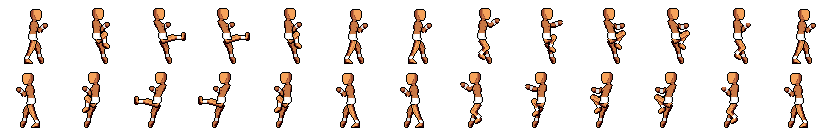
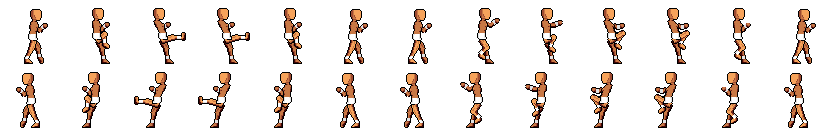
Muay Thai kicks: the lead foot stays planted flat while the near leg kicks (user)
Claude-Session: https://claude.ai/code/session_017CpKqJoJ6S1SbVzf5siv9E

diff --git a/tools/mtstrikes.py b/tools/mtstrikes.py
@@ -26,7 +26,7 @@ POSES = [pose(LIGHT, 'cross-lead'), pose(LIGHT, 'cross-rear')] + [pose(HEAVY, n)
 
 ST = dict(an=GN, af=GF, bob=(1, 1, 2), lean=(0, 2), root=(0, 0), ln='mt-rear', lf='mt-lead')   # muayThaiGuard frame 0
 def f(**k): return {**ST, **k}
-def p(**k): return {**ST, 'lf': 'mt-lead-flat', **k}   # punch frames: the lead heel comes down and stays down until the clip returns to the stance
+def p(**k): return {**ST, 'lf': 'mt-lead-flat', **k}   # strike frames: the lead heel comes down and stays down until the clip returns to the stance (Christopher 2026-10-20, punches and near-leg kicks)
 
 CLIPS = {   # (clip, ability, active frame, hitbox [x, y, w, h], damage, frames)
  'jab': ('Jab-Cross', 1, [44, 26, 12, 6], 'light', [
@@ -34,25 +34,25 @@ CLIPS = {   # (clip, ability, active frame, hitbox [x, y, w, h], damage, frames)
  'cross': ('Jab-Cross', 1, [44, 26, 12, 6], 'light', [
      p(an=band(-8, 205), lean=(0, 3)), p(an=band(-92, -92), bob=(2, 2, 2), lean=(1, 5), root=(1, 0), ln='cross-rear', lf='cross-lead'), p(an=band(-55, 230), lean=(0, 3)), f()]),
  'calfKick': ('Calf Kick', 2, [42, 46, 16, 10], 'heavy', [
-     f(lean=(0, 1)), f(bob=(0, 0, 1), lean=(0, 0), ln='lift'),
-     f(an=band(25, 20), bob=(0, 0, 1), lean=(1, -2), root=(1, 0), ln='low-kick', lf='lead-pivot'),
-     f(bob=(0, 0, 1), lean=(0, -1), ln='low-recoil', lf='lead-pivot'), f()]),
+     p(lean=(0, 1)), p(bob=(0, 0, 1), lean=(0, 0), ln='lift'),
+     p(an=band(25, 20), bob=(0, 0, 1), lean=(1, -2), root=(1, 0), ln='low-kick', lf='lead-pivot'),
+     p(bob=(0, 0, 1), lean=(0, -1), ln='low-recoil', lf='lead-pivot'), f()]),
  'roundhouse': ('Roundhouse Kick', 3, [44, 28, 14, 10], 'heavy', [   # rear arm swings down and back as the hip turns over; lead hand stays up
-     f(), f(an=band(-5, 190), bob=(0, 0, 1), lean=(0, 1), ln='lift', lf='mt-pivot'),
-     f(an=band(30, 40), bob=(0, 0, 1), lean=(1, -1), ln='round-fold', lf='mt-pivot'),
-     f(an=band(40, 30), af=band(-60, 200), bob=(0, 0, 1), lean=(1, -4), root=(1, 0), ln='mt-round', lf='mt-pivot'),
-     f(an=band(40, 30), af=band(-60, 200), bob=(0, 0, 1), lean=(1, -4), ln='mt-round', lf='mt-pivot'),
-     f(an=band(10, 60), bob=(0, 0, 1), lean=(0, -1), ln='round-fold', lf='mt-pivot'), f(an=band(-10, 200), ln='lift'), f()]),
+     f(), p(an=band(-5, 190), bob=(0, 0, 1), lean=(0, 1), ln='lift', lf='lead-pivot'),
+     p(an=band(30, 40), bob=(0, 0, 1), lean=(1, -1), ln='round-fold', lf='lead-pivot'),
+     p(an=band(40, 30), af=band(-60, 200), bob=(0, 0, 1), lean=(1, -4), root=(1, 0), ln='mt-round', lf='lead-pivot'),
+     p(an=band(40, 30), af=band(-60, 200), bob=(0, 0, 1), lean=(1, -4), ln='mt-round', lf='lead-pivot'),
+     p(an=band(10, 60), bob=(0, 0, 1), lean=(0, -1), ln='round-fold', lf='lead-pivot'), p(an=band(-10, 200), ln='lift'), f()]),
  'teep': ('Teep Kick', 2, [46, 34, 12, 10], 'heavy', [   # knee to the chest, hips pushed through, torso leaning back
-     f(), f(bob=(0, 0, 1), lean=(0, 0), ln='teep-chamber'),
-     f(bob=(0, 0, 1), lean=(2, -3), root=(1, 0), ln='teep'), f(bob=(0, 0, 1), lean=(2, -3), ln='teep'),
-     f(bob=(0, 0, 1), lean=(0, 0), ln='teep-chamber'), f()]),
- 'knee': ('Knee Strikes', 3, [44, 32, 10, 10], 'heavy', [   # hands reach up and pull down as the rear knee drives up, up on the lead toes
-     f(), f(an=band(-75, -120), af=band(-85, -125), bob=(0, 0, 1), lean=(1, 3), ln='lift'),
-     f(an=band(-70, -100), af=band(-80, -110), bob=(0, 0, 1), lean=(2, 1), root=(1, 0), ln='chamber'),
-     f(an=band(-55, -70), af=band(-65, -85), bob=(0, 0, 0), lean=(3, -1), ln='mt-knee'),
-     f(an=band(-55, -70), af=band(-65, -85), bob=(0, 0, 0), lean=(3, -1), ln='mt-knee'),
-     f(an=band(-40, 230), af=GF, bob=(0, 0, 1), lean=(1, 1), ln='lift'), f()]),
+     f(), p(bob=(0, 0, 1), lean=(0, 0), ln='teep-chamber'),
+     p(bob=(0, 0, 1), lean=(2, -3), root=(1, 0), ln='teep'), p(bob=(0, 0, 1), lean=(2, -3), ln='teep'),
+     p(bob=(0, 0, 1), lean=(0, 0), ln='teep-chamber'), f()]),
+ 'knee': ('Knee Strikes', 3, [44, 32, 10, 10], 'heavy', [   # hands reach up and pull down as the rear knee drives up, lead foot planted
+     f(), p(an=band(-75, -120), af=band(-85, -125), bob=(0, 0, 1), lean=(1, 3), ln='lift'),
+     p(an=band(-70, -100), af=band(-80, -110), bob=(0, 0, 1), lean=(2, 1), root=(1, 0), ln='chamber'),
+     p(an=band(-55, -70), af=band(-65, -85), bob=(0, 0, 0), lean=(3, -1), ln='mt-knee'),
+     p(an=band(-55, -70), af=band(-65, -85), bob=(0, 0, 0), lean=(3, -1), ln='mt-knee'),
+     p(an=band(-40, 230), af=GF, bob=(0, 0, 1), lean=(1, 1), ln='lift'), f()]),
  'elbow': ('Elbow Strike', 2, [42, 22, 10, 8], 'heavy', [   # rear elbow carried level across, forearm folded back to the head
      f(), p(an=band(-55, -155), lean=(1, 3)),
      f(an=band(-105, 95), bob=(2, 2, 2), lean=(1, 3), root=(1, 0), ln='cross-rear', lf='cross-lead'),
@@ -83,7 +83,7 @@ def spec(state, names):
     events = {'rule': 'per-frame gameplay data per facing (W mirrors E: x -> 64 - x - w); hitboxes provisional', 'E': ev,
               'W': [{**e, 'hitbox': [64 - e['hitbox'][0] - e['hitbox'][2]] + e['hitbox'][1:]} if 'hitbox' in e else dict(e) for e in ev]}
     s = build(base, state, frames, status=STAT, newPoses=POSES, clips=clips, events=events, rmRule='E: x +1 on the step into each strike',
-              intent='Muay Thai stance strikes: Jab-Cross, Calf Kick, Roundhouse (rear shin swung through at rib height, rear arm swinging down and back), Teep (knee to the chest then a flat-soled push, torso back), Knee (hands reach and pull down, rear knee driven up on the lead toes), Elbow (rear elbow level across, forearm folded) and Uppercut (dip then rise). Every clip starts and ends in the approved Muay Thai guard frame.',
+              intent='Muay Thai stance strikes: Jab-Cross, Calf Kick, Roundhouse (rear shin swung through at rib height, rear arm swinging down and back), Teep (knee to the chest then a flat-soled push, torso back), Knee (hands reach and pull down, rear knee driven up, lead foot planted), Elbow (rear elbow level across, forearm folded) and Uppercut (dip then rise). Every clip starts and ends in the approved Muay Thai guard frame.',
               extra={'stance': 'Muay Thai Stance'})
     s['fps'] = 12; s.pop('approved', None); s.pop('keyPoses', None)
     save(s, D + state + '.json'); print(state, i, 'frames', ' '.join(names))
